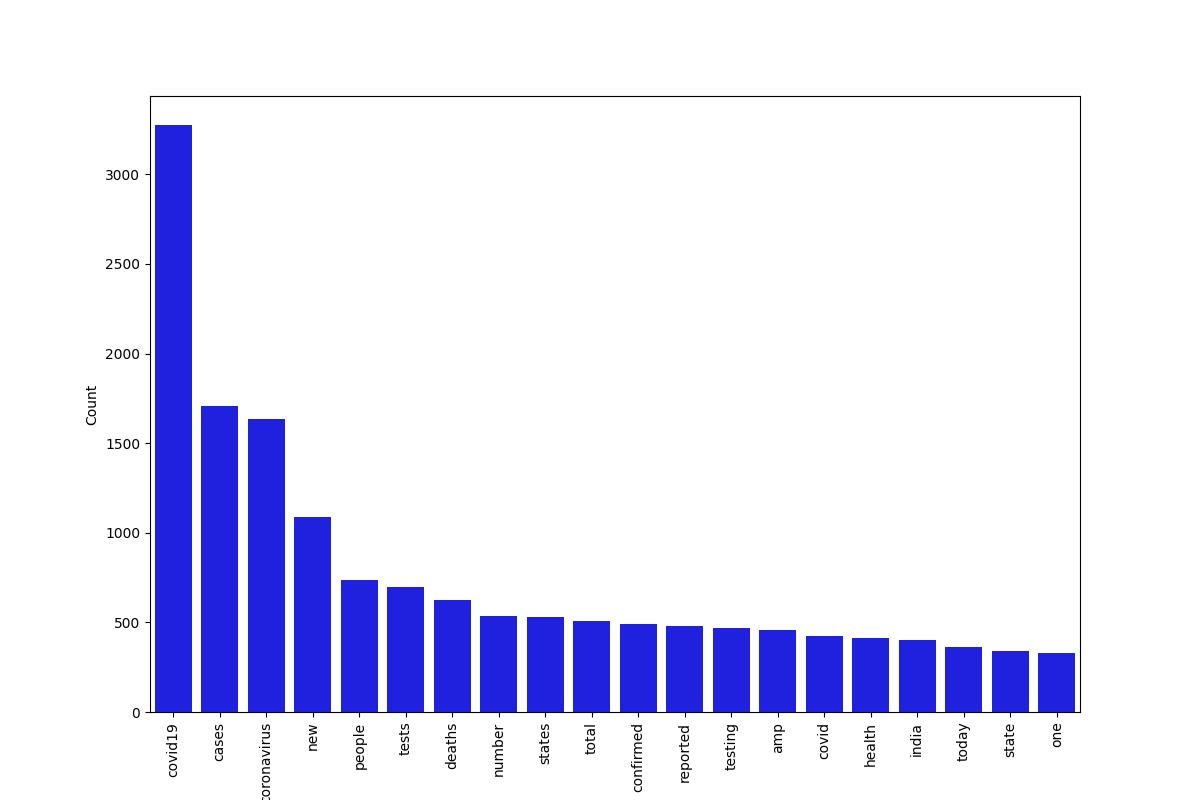
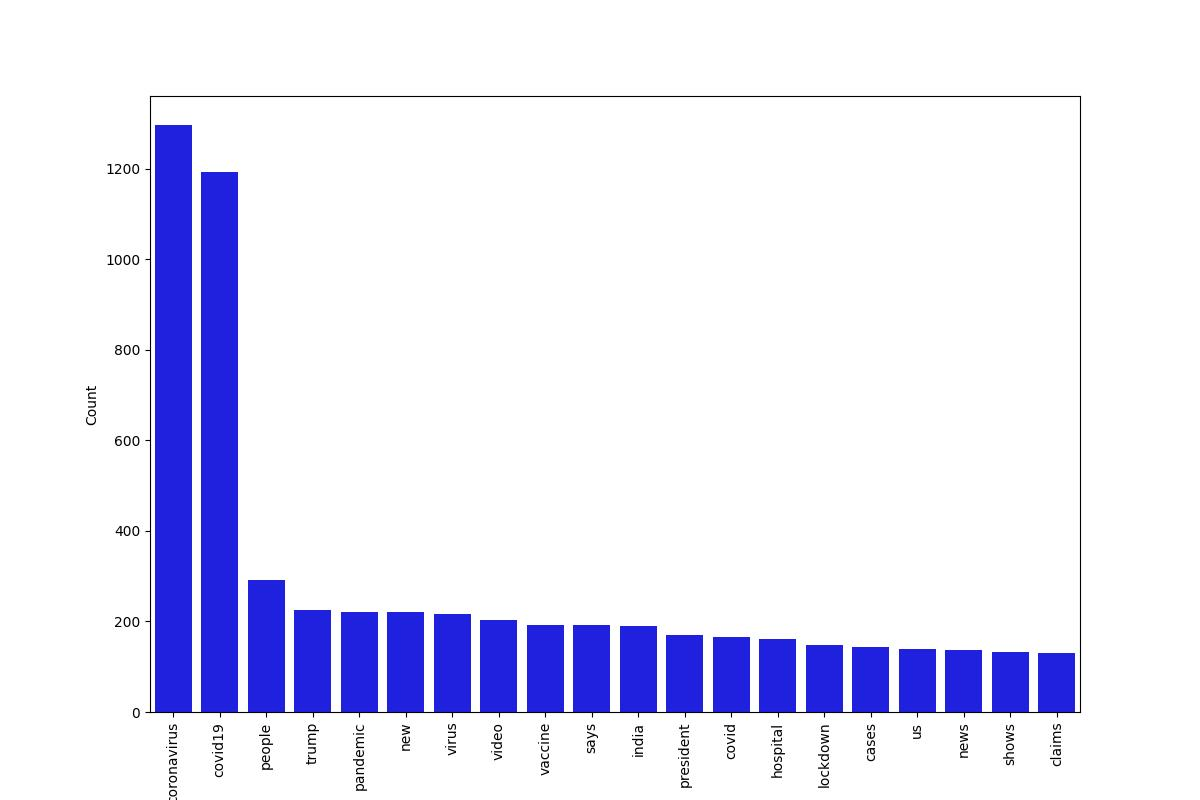
Word Cloud bug fix

diff --git a/Flask_App/machLearn.py b/Flask_App/machLearn.py
@@ -176,7 +176,7 @@ def countWords(dataset):
     token_space = tokenize.WhitespaceTokenizer()
 
     # Most frequent words in fake news
-    counter(dataset[dataset['target1'] == "fake"], "text", 20, token_space)
+    counter(dataset[dataset['label'] == "fake"], "text", 20, token_space)
 
     # Most frequent words in real news
     #counter(dataset[dataset['target2'] == "true"], "text", 20, token_space)
